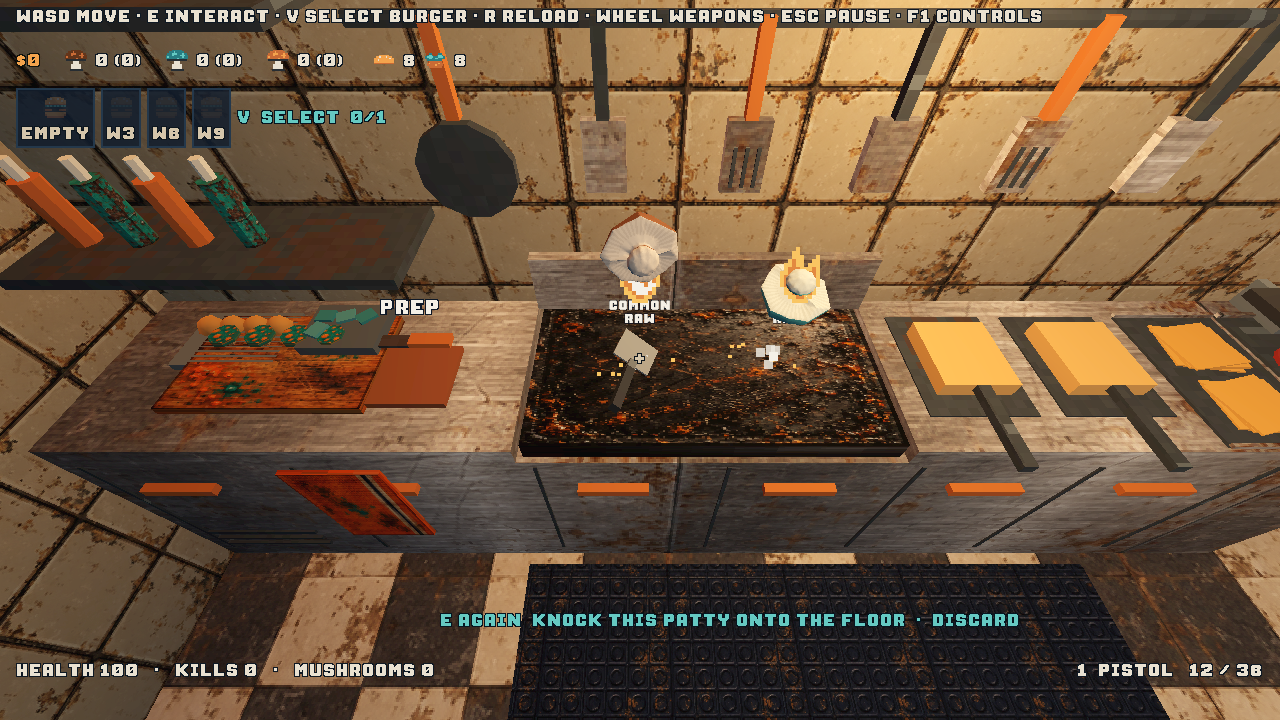
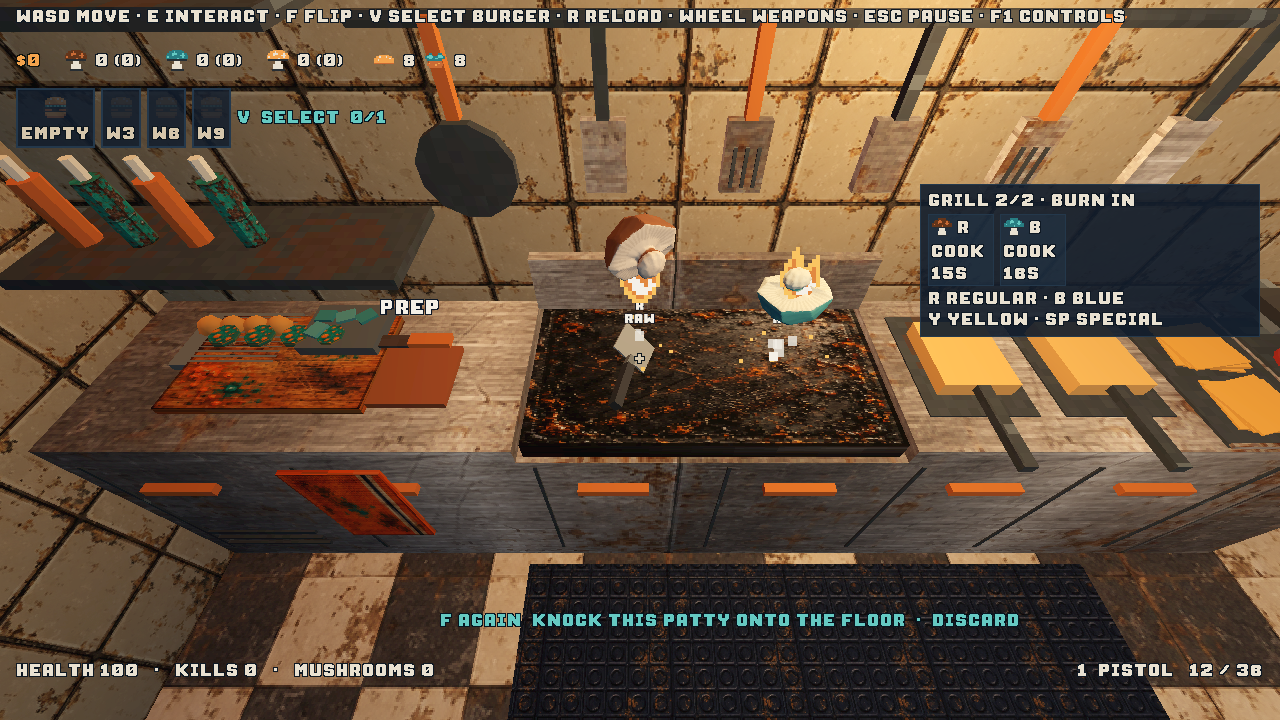
Use F for flip and discard; match speech letters and rims to mushroom colours

diff --git a/docs/handover/GRILL_RECOVERY.md b/docs/handover/GRILL_RECOVERY.md
@@ -1,9 +1,13 @@
 # Grill mistake recovery
 
-E on an unflipped raw/cooking patty still flips it. A second E on the same slot within 0.45 seconds discards it, even while the flip tween is running. The second-tap prompt says what will happen. Late presses, other slots, losing grill focus, a reused slot, and any cooked/burnt patty cannot inherit that discard action. Cooking reaching the ready threshold immediately cancels it.
+F on an unflipped raw/cooking patty still flips it. A second F on the same slot within 0.45 seconds discards it, even while the flip tween is running. The second-tap prompt says what will happen. Late presses, other slots, losing grill focus, a reused slot, and any cooked/burnt patty cannot inherit that discard action. Cooking reaching the ready threshold immediately cancels it.
 
 Discard frees the slot without refunding stock or producing a burger. One cosmetic mushroom is thrown onto the floor: no collision/physics, at most six waste visuals, automatic cleanup after about eight seconds. Material and pose are copied so later slot reuse does not change floor waste.
 
 An incomplete double/special recipe preserves every requested kind, but may box a ready unrelated patty as a single (warming tray first, then oldest ready grill spare). Full requested recipes retain priority. Raw/cooking spares cannot be boxed; missing-recipe prompts and burnt salvage remain available when no spare exists.
 
 Regression tests exercise real grill interactions, timing, slot identity, cooked cutoff, ingredient conservation, wrong-single boxing, preserving matching patties, completing the double with a replacement, and warming-tray fallback. Native capture_grill_recovery.gd verifies the falling visual, floor position, no colliders and cleanup, and saves flip/floor screenshots.
+
+Updated input: F is the flip/discard action, routed through player flip_patty binding. E opens placement menus and never flips or discards. Key echo cannot supply the second tap. Native capture uses viewport keyboard injection (F press, release, F press). Sawn-off inspect moved to I to remove the F conflict.
+
+F update validation: physical-key event regressions include E opening the menu, held-key echo rejection, timing, cooked cutoff and slot reuse. Native viewport key injection passed toss/floor/cleanup checks. Import, touched-script checks and all 36 suites pass.

diff --git a/docs/handover/KITCHEN_HUD.md b/docs/handover/KITCHEN_HUD.md
@@ -9,3 +9,5 @@ ClarityHUD has compact grill slot cards: mushroom icon, type code, state and sec
 Tests cover every code, legacy labels, quantity semantics, matching bubble/HUD after partial service, Double Yellow border, Special dual stripes, burn timers before/after flipping, upgraded slots and hidden HUD on death. capture_kitchen_hud.gd renders a four-slot mixed grill and DBL Y X2 customer view for native visual QA.
 
 Verification: validator, import, touched-script checks and all 36 test suites passed (cooking loop updated for code-based rail text and rerun). Native mixed-grill/customer captures inspected after layout corrections; standard room/weapon captures also rendered. Double-Blue tray lids now resolve base recipe colour consistently and are covered by the HUD regression suite.
+
+Speech bubble refinements: the actual order letters and rim use Recipes.colour for the requested mushroom, with a dark text outline. A separate full REGULAR / BLUE / YELLOW caption distinguishes pixel-font R and B; Special says BLUE + YELLOW with a split rim. Native captures include Regular, Blue and Special separately.
